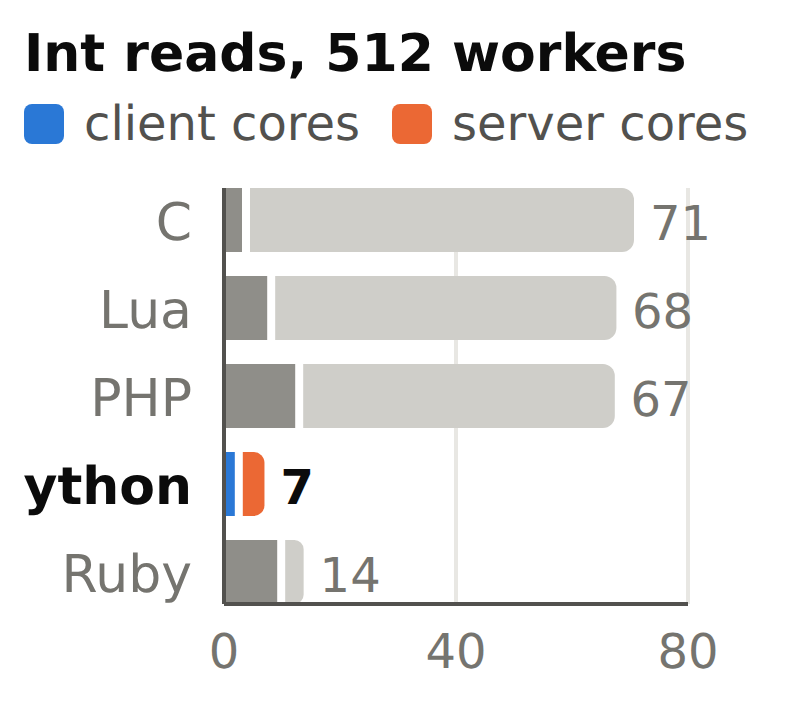
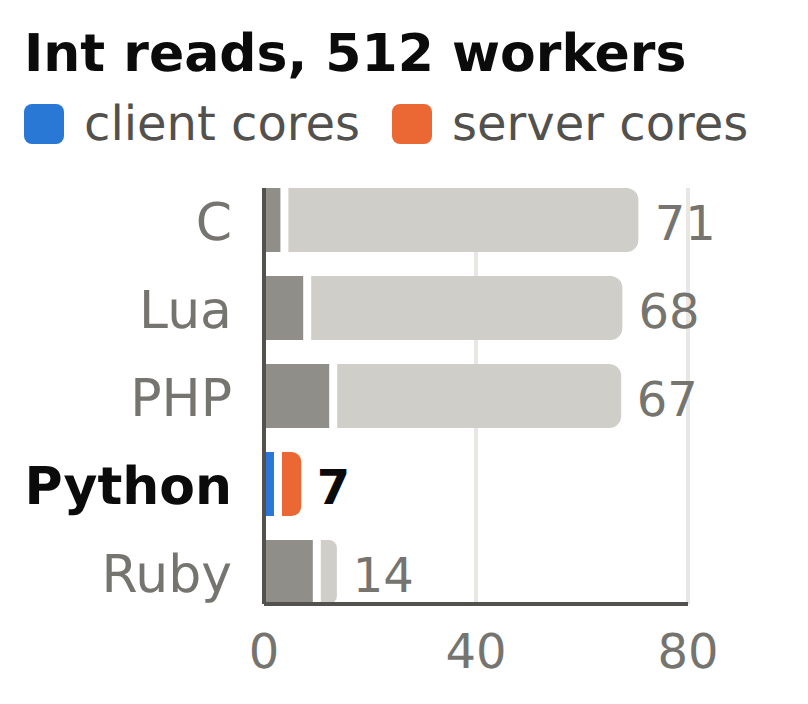
blog: shorter "Int reads" titles; stop bold labels clipping in table charts
Claude-Session: https://claude.ai/code/session_01DVm3N343MAy56E6DLkPUGX

diff --git a/blog/build_charts.py b/blog/build_charts.py
@@ -308,7 +308,7 @@ def mini_cores_svg(rows, highlight, xmax=80):
     """Small stacked client/server cores chart for a table cell. rows: (lang, client, server).
     The highlighted language is in colour; the others are in two shades of gray."""
     bar_h, gap = 16, 6
-    L, R, T, B = 50, 24, 4, 22
+    L, R, T, B = 60, 24, 4, 22
     W = 190
     ph = len(rows) * (bar_h + gap) - gap
     H = T + ph + B
